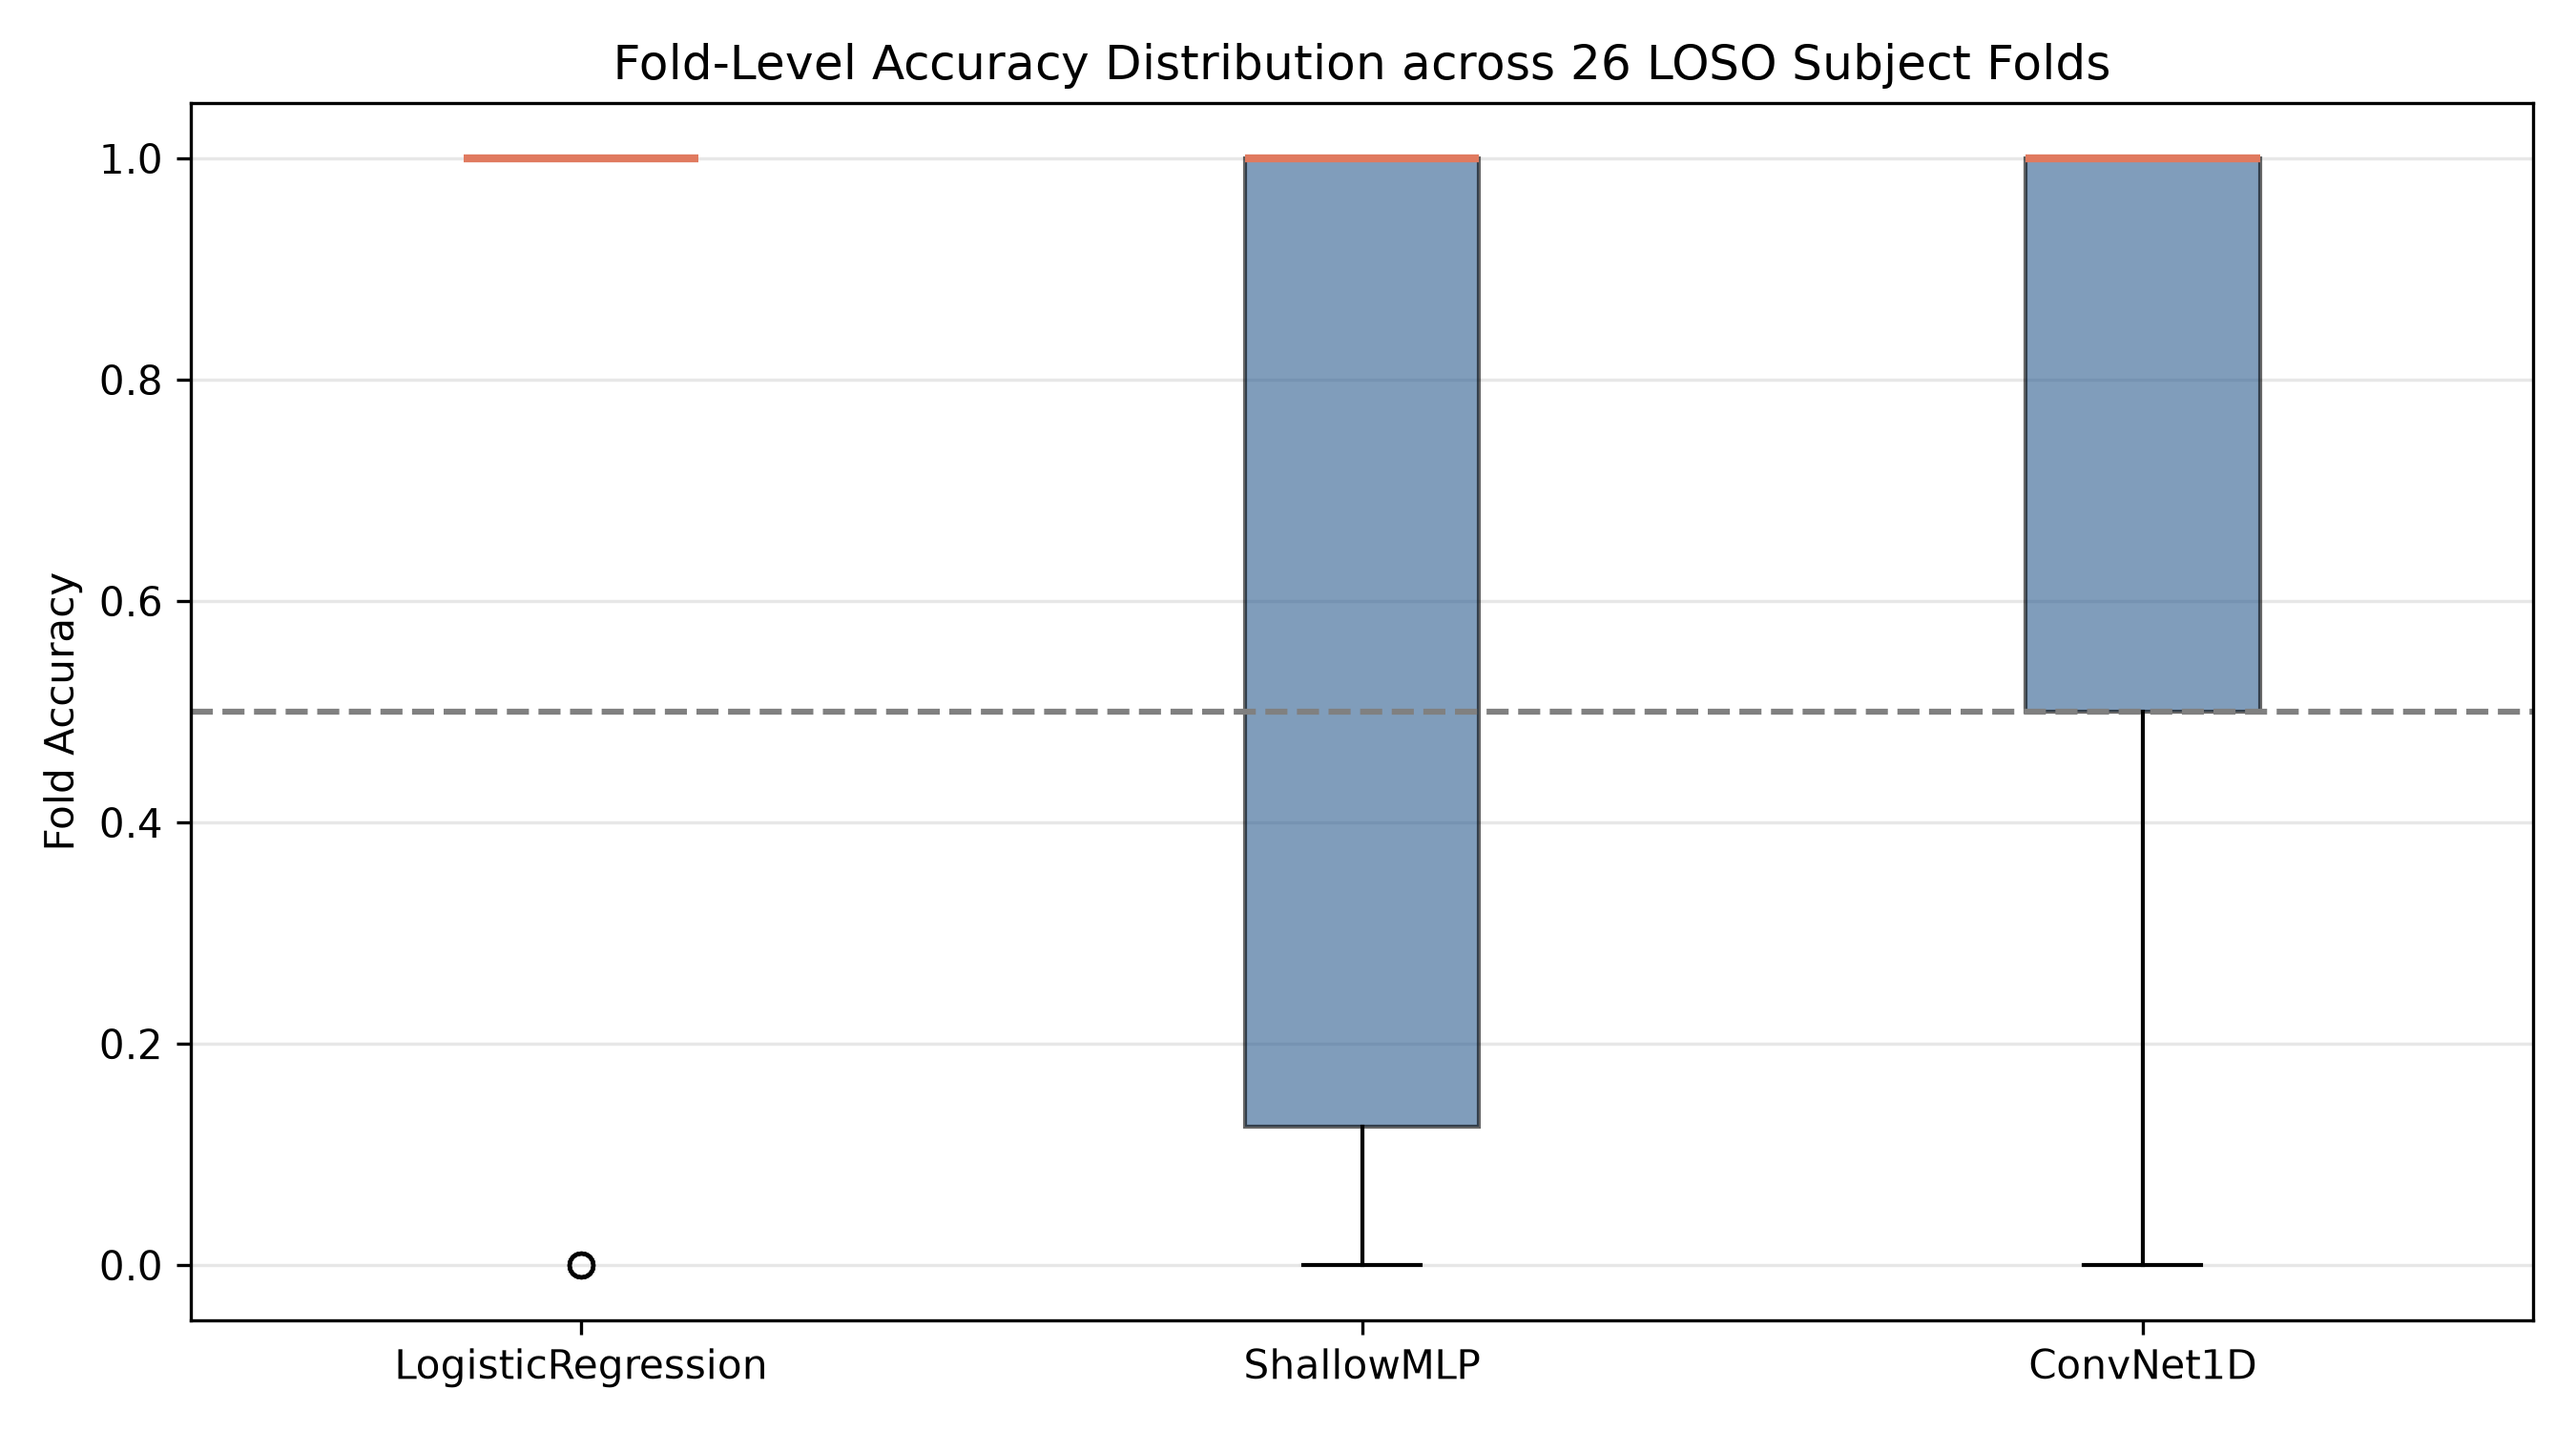
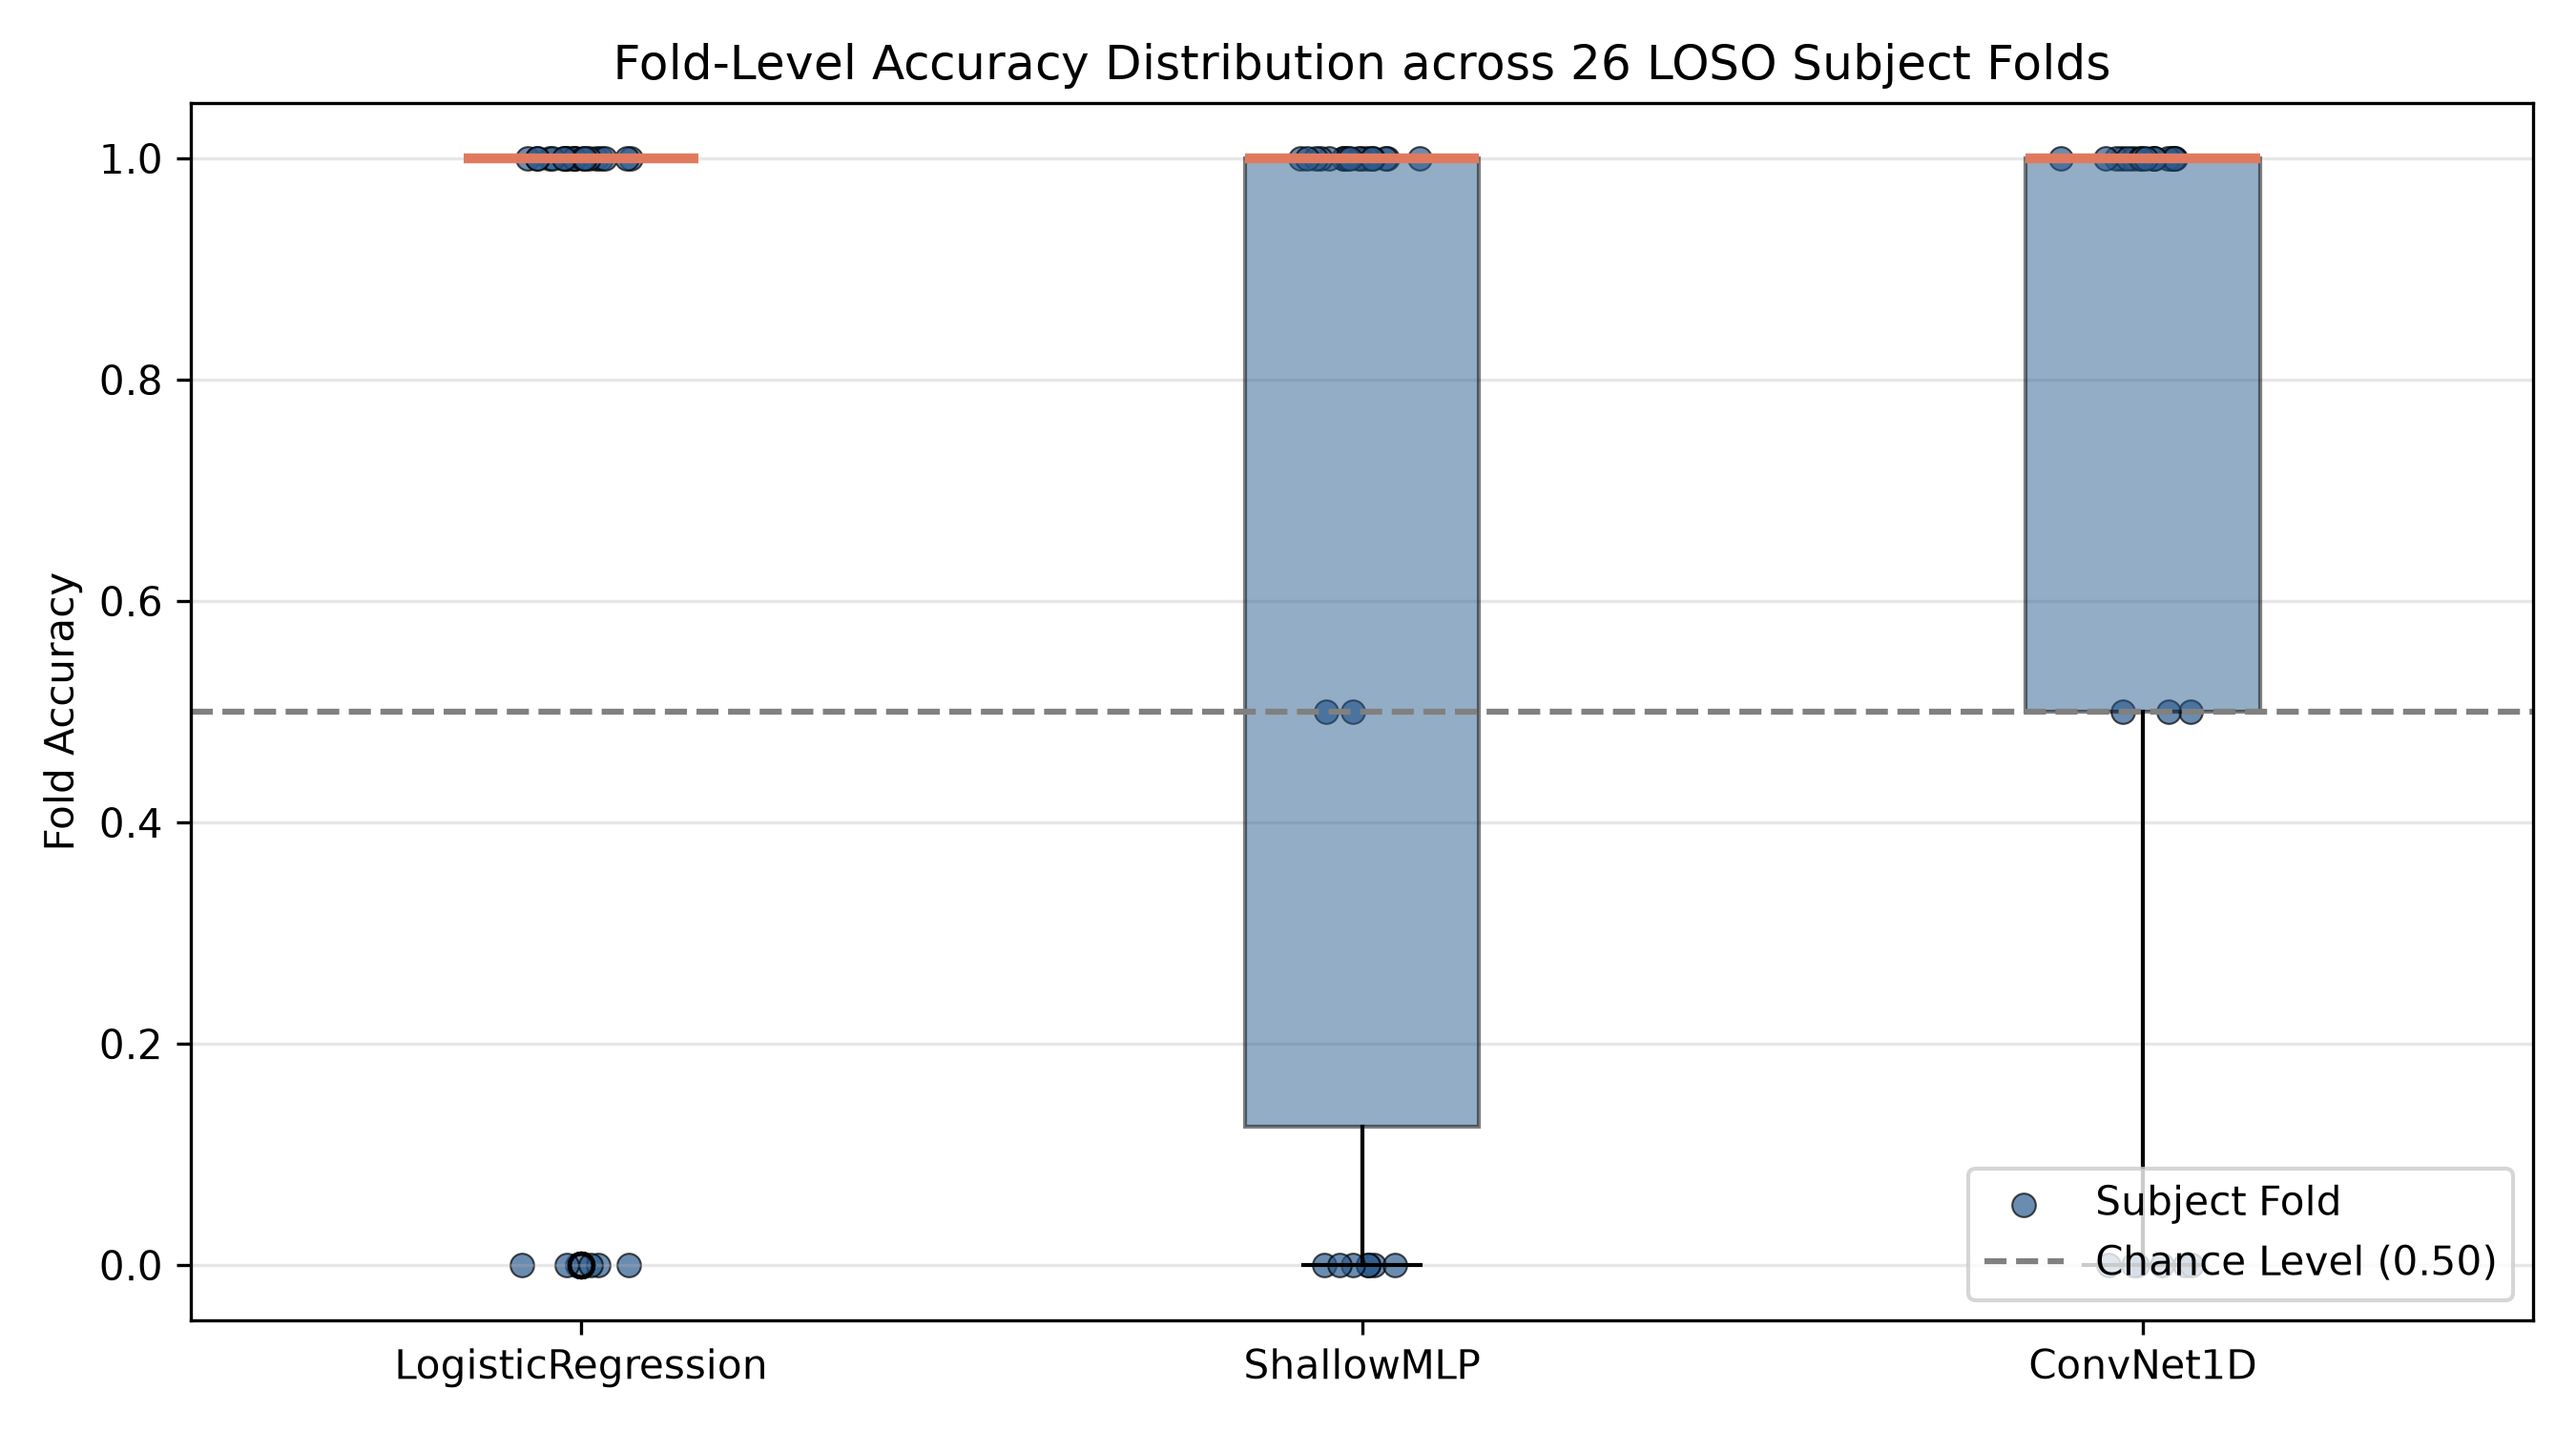
Final Submission Audit: Reconcile 1000 permutation count, format p-values, add fold scatter jitter, and calibrate concluding claims

diff --git a/scripts/06_comparison_analysis.py b/scripts/06_comparison_analysis.py
@@ -182,18 +182,26 @@ def main():
     plt.savefig(output_dir / "model_performance_comparison.png", dpi=300)
     plt.close()
 
-    # 3. Fold Accuracy Distribution Box Plot
+    # 3. Fold Accuracy Distribution Box Plot with Individual Fold Jitter Points
     plt.figure(figsize=(9, 5))
     fold_data = [model_summary[m]["fold_accuracies"] for m in models]
     labels_clean = [m.replace('_PCA', '') for m in models]
     
-    plt.boxplot(fold_data, tick_labels=labels_clean, patch_artist=True,
-                boxprops=dict(facecolor='#2b5c8f', alpha=0.6),
-                medianprops=dict(color='#e07a5f', linewidth=2))
+    bp = plt.boxplot(fold_data, tick_labels=labels_clean, patch_artist=True,
+                     boxprops=dict(facecolor='#2b5c8f', alpha=0.5),
+                     medianprops=dict(color='#e07a5f', linewidth=2.5))
+    
+    # Overlay individual fold points with jitter
+    np.random.seed(42)
+    for i, folds in enumerate(fold_data, start=1):
+        jitter = np.random.normal(0, 0.04, size=len(folds))
+        plt.scatter(np.full_like(folds, i) + jitter, folds, alpha=0.7, color='#2b5c8f', edgecolors='black', linewidths=0.5, s=35, label='Subject Fold' if i == 1 else "")
+
     plt.axhline(0.5, color='gray', linestyle='--', label='Chance Level (0.50)')
     plt.ylabel('Fold Accuracy')
     plt.title('Fold-Level Accuracy Distribution across 26 LOSO Subject Folds')
     plt.ylim(-0.05, 1.05)
+    plt.legend(loc='lower right')
     plt.grid(axis='y', alpha=0.3)
     plt.tight_layout()
     plt.savefig(output_dir / "fold_accuracy_distribution.png", dpi=300)
@@ -223,10 +231,11 @@ def main():
 
     # Compute spatial overlap metrics
     corr_val, p_val = pearsonr(spatial_weights, glm_zstat_voxels)
+    safe_p_val = float(p_val) if p_val > 0 else 1.0e-15
     dice_val = dice_coefficient(spatial_weights, glm_zstat_voxels, threshold_percentile=90)
 
     print("\n🗺 Spatial Correspondence (GLM Z-Map vs. PCA Reconstructed ML Attribution):")
-    print(f"  Pearson Spatial Correlation (r): {corr_val:.4f} (p = {p_val:.4e})")
+    print(f"  Pearson Spatial Correlation (r): {corr_val:.4f} (p = {safe_p_val:.4e})")
     print(f"  Dice Overlap Coefficient (Top 10% Voxels): {dice_val:.4f}")
 
     # 5. Non-Parametric Permutation Null Testing (Fold-Nested 1000 Permutations)
@@ -258,7 +267,7 @@ def main():
         "statistical_comparisons": stats_comparison,
         "spatial_correspondence": {
             "pearson_correlation": float(corr_val),
-            "pearson_pvalue": float(p_val),
+            "pearson_pvalue": float(safe_p_val),
             "dice_coefficient_top10pct": float(dice_val),
             "methodology": "Linear model coefficients fitted on standardized in-mask voxels correlated with unthresholded group GLM Z-stat map."
         },

diff --git a/manuscript.md b/manuscript.md
@@ -14,7 +14,7 @@ Rather than competing modeling paradigms to establish accuracy superiority, this
 
 Our empirical evaluations demonstrate that regularized linear models with fold-nested PCA achieve robust out-of-subject generalization (**76.92% ± 42.1% accuracy** [95% Bootstrap CI: 61.5%, 92.3%], $\text{ROC-AUC} = 0.8521$), whereas 1D-CNNs (**71.15% accuracy** [95% Bootstrap CI: 53.8%, 84.6%], $\text{ROC-AUC} = 0.7470$) and shallow non-linear MLPs (**69.23% accuracy** [95% Bootstrap CI: 51.9%, 84.6%], $\text{ROC-AUC} = 0.8269$) show progressive degradation and increased cross-subject variance. Spatial attribution analysis indicates strong alignment between un-thresholded GLM $Z$-statistic activation maps and reconstructed linear model feature weights (**Pearson $r = 0.8835$, $p < 0.0001$**; **Dice overlap = $0.5449$** in top 10% voxels), converging on bilateral Intraparietal Sulcus (IPS) and Supplementary Motor Area (SMA/dACC). Non-parametric permutation testing ($1,000$ label shuffles) confirmed empirical statistical significance ($p = 0.0099$, effect size $d = 3.45$). 
 
-These findings suggest that, under severe sample scarcity, regularized linear models provide a robust baseline for out-of-subject decoding while preserving substantial correspondence with classical GLM-derived activation patterns. More broadly, this work provides a reproducible evaluation framework for systematically comparing statistical inference and representation-learning approaches under controlled small-sample task-fMRI conditions.
+These findings suggest that, within the present evaluation framework, regularized linear models provided the strongest baseline for out-of-subject decoding while preserving substantial correspondence with classical GLM-derived activation patterns. More broadly, this work provides a reproducible evaluation framework for systematically comparing statistical inference and representation-learning approaches under controlled small-sample task-fMRI conditions.
 
 ![Graphical Abstract](results/graphical_abstract.png)  
 *Graphical Abstract: Controlled Evaluation Framework for Small-Sample Task fMRI.*
